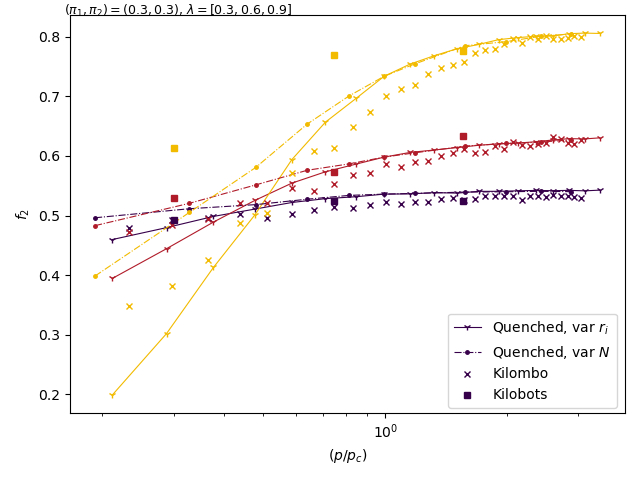
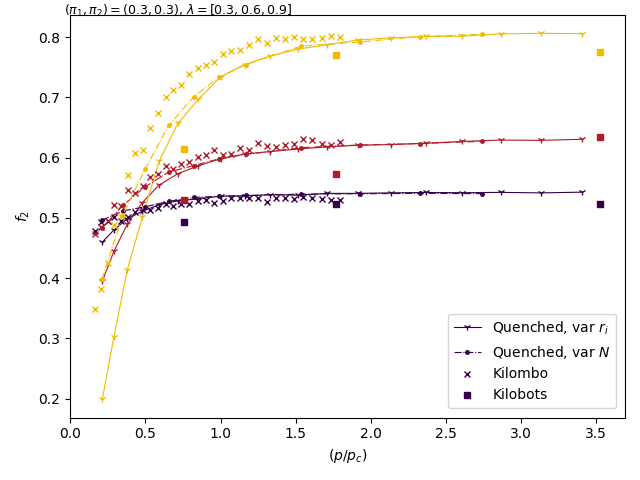
work 27 june

diff --git a/sim_some_params_frozen/sim_results_scaling_v2.py b/sim_some_params_frozen/sim_results_scaling_v2.py
@@ -5,7 +5,9 @@ import numpy as np
 # aqui la idea es que representem els resultats en funció de de p/pc o p*, i.e. la densitat de percolació
 # on pc = (N*ri**2/R**2)c, sent qualsevol de les variables la crítica
 # per exemple a partir dels radis de percolació a diferetns N (R fixe) obtenim una relació
-# pc = a + b*N^(-1/(nu*df)) 
+# pc = a + b*N^(-1/(nu*df))
+# pero en lloc de treure els valors de pc d'aquesta relació, fem servir igualment la relació
+# ri_c = a*N**b 
 
 model = 'Galla'
 pis = [0.3, 0.3]
@@ -24,12 +26,16 @@ nu, df_expo = 4/3, 182/96
 def perc_dens(N:int):
     return 11.356*N**(-1/(nu*df_expo)) + 0.939
 
+def perc_r(N):
+    return 58.11*N**(-0.615)
+
 fig, ax = plt.subplots()
 
 # QUENCHED
 # fix N, move interaction radius:
 N = 35
 perc_dens_fixN = perc_dens(N)
+perc_r_fixN = perc_r(N)
 df = pd.read_csv(f'{model}/{N}_bots/sim_fp_results_er_{exclusion_r}_NOPUSH.csv')
 df = df.loc[(df['arena_r']==arena_r) & (df['pi1']==pis[0]) & (df['pi2']==pis[1]) & (df['q1']==qs[0]) & (df['q2']==qs[1])]
 df = df[df.interac_r != 20.0]
@@ -37,14 +43,18 @@ df = df.rename(columns={"lambda":"lamb"})
 for l,lcolor in zip(lambs,lambs_colors):
     dfl = df.query('lamb == @l')
     if l==0.3:
-        ax.plot((N*dfl['interac_r']**2/arena_r**2)/perc_dens_fixN, dfl['f2'], color=lcolor, marker='1', markersize=5, lw=0.8, label=r'Quenched, var $r_i$')
+        # ax.plot((N*dfl['interac_r']**2/arena_r**2)/perc_dens_fixN, dfl['f2'], color=lcolor, marker='1', markersize=5, lw=0.8, label=r'Quenched, var $r_i$')
+        ax.plot((dfl['interac_r']/perc_r_fixN)**2, dfl['f2'], color=lcolor, marker='1', markersize=5, lw=0.8, label=r'Quenched, var $r_i$')
     else:
-        ax.plot((N*dfl['interac_r']**2/arena_r**2)/perc_dens_fixN, dfl['f2'], color=lcolor, marker='1', markersize=5, lw=0.8)
+        # ax.plot((N*dfl['interac_r']**2/arena_r**2)/perc_dens_fixN, dfl['f2'], color=lcolor, marker='1', markersize=5, lw=0.8)
+        ax.plot((dfl['interac_r']/perc_r_fixN)**2, dfl['f2'], color=lcolor, marker='1', markersize=5, lw=0.8)
 
 # QUENCHED
 # fix r_i, move N:
 interac_r = 6.5
 Ns = [10, 15, 20, 25, 30, 35, 40, 50, 60, 70, 80]
+# in this case we should know de Nc for this particular val of the interac_r, and p/pc = N/Nc
+# as we don't know this, we do p/pc = (interac_r/interac_r_c(N))**2
 for l,lcolor in zip(lambs,lambs_colors):
     f1_dif_N, f2_dif_N = [], []
     for N in Ns:
@@ -53,44 +63,54 @@ for l,lcolor in zip(lambs,lambs_colors):
         df = df.query('arena_r == @arena_r & pi1 == @pis[0] & pi2 == @pis[1] & q1 == @qs[0] & q2 == @qs[1] & lamb == @l & interac_r == @interac_r')
         f1_dif_N.append(float(df['f1'].iloc[0])), f2_dif_N.append(float(df['f2'].iloc[0]))
     perc_dens_q = perc_dens(np.array(Ns))
+    perc_r_difN = perc_r(np.array(Ns))
     if l==0.3:
-        ax.plot((np.array(Ns)*interac_r**2/arena_r**2)/perc_dens_q, f2_dif_N, color=lcolor, marker='.', markersize=5, lw=0.8, ls='-.', label=r'Quenched, var $N$')
+        # ax.plot((np.array(Ns)*interac_r**2/arena_r**2)/perc_dens_q, f2_dif_N, color=lcolor, marker='.', markersize=5, lw=0.8, ls='-.', label=r'Quenched, var $N$')
+        ax.plot((interac_r/perc_r_difN)**2, f2_dif_N, color=lcolor, marker='.', markersize=5, lw=0.8, ls='-.', label=r'Quenched, var $N$')
     else:
-        ax.plot((np.array(Ns)*interac_r**2/arena_r**2)/perc_dens_q, f2_dif_N, color=lcolor, marker='.', markersize=5, lw=0.8, ls='-.')
+        # ax.plot((np.array(Ns)*interac_r**2/arena_r**2)/perc_dens_q, f2_dif_N, color=lcolor, marker='.', markersize=5, lw=0.8, ls='-.')
+        ax.plot((interac_r/perc_r_difN)**2, f2_dif_N, color=lcolor, marker='.', markersize=5, lw=0.8, ls='-.')
 
 
 factor = 4.0/6.5
+factor = 4.0/7.0
 # factor = 0.5
 # KILOMBO
 # fix r_i, move N:
-interac_r = 7.0
+interac_r = 5.0
 df = pd.read_csv('other_res_files/kilomboStatValues_variableN.csv')
 df = df.rename(columns={"lambda":"lamb"})
 df = df.query("parameter == 'f2'")
 for l,lcolor in zip(lambs,lambs_colors):
     dfl = df.query('lamb == @l').copy()
     dfl['perc_dens'] = factor**2 * perc_dens(dfl['N'])
+    dfl['perc_r'] = factor * perc_r(dfl['N'])
     if l==0.3:
-        ax.plot(dfl['N']*(interac_r/arena_r)**2/dfl['perc_dens'], dfl['stat.value'], color=lcolor, marker='x', markersize=4, lw=0.0, label='Kilombo')
+        # ax.plot(dfl['N']*(interac_r/arena_r)**2/dfl['perc_dens'], dfl['stat.value'], color=lcolor, marker='x', markersize=4, lw=0.0, label='Kilombo')
+        ax.plot((interac_r/dfl['perc_r'])**2, dfl['stat.value'], color=lcolor, marker='x', markersize=4, lw=0.0, label='Kilombo')
     else:
-        ax.plot(dfl['N']*(interac_r/arena_r)**2/dfl['perc_dens'], dfl['stat.value'], color=lcolor, marker='x', markersize=4, lw=0.0)
+        # ax.plot(dfl['N']*(interac_r/arena_r)**2/dfl['perc_dens'], dfl['stat.value'], color=lcolor, marker='x', markersize=4, lw=0.0)
+        ax.plot((interac_r/dfl['perc_r'])**2, dfl['stat.value'], color=lcolor, marker='x', markersize=4, lw=0.0)
 
 
 # KILOBOTS
 # fix r_i, move N:
-interac_r = 5.0
+interac_r = 7.0
 df = pd.read_csv('other_res_files/KilobotsStatValues_VaryingN.csv')
 df = df.rename(columns={"lambda":"lamb"})
 df = df.query("parameter == 'f2' & pi1 == @pis[0] & pi2 == @pis[1]")
 for l,lcolor in zip(lambs,lambs_colors):
     dfl = df.query('lamb == @l').copy()
     dfl['perc_dens'] = factor**2 * perc_dens(dfl['N'])
+    dfl['perc_r'] = factor * perc_r(dfl['N'])
     if l==0.3:
-        ax.plot(dfl['N']*(interac_r/arena_r)**2/dfl['perc_dens'], dfl['stat.value'], color=lcolor, marker='s', markersize=4, lw=0.0, label='Kilobots')
+        # ax.plot(dfl['N']*(interac_r/arena_r)**2/dfl['perc_dens'], dfl['stat.value'], color=lcolor, marker='s', markersize=4, lw=0.0, label='Kilobots')
+        ax.plot((interac_r/dfl['perc_r'])**2, dfl['stat.value'], color=lcolor, marker='s', markersize=4, lw=0.0, label='Kilobots')
     else:
-        ax.plot(dfl['N']*(interac_r/arena_r)**2/dfl['perc_dens'], dfl['stat.value'], color=lcolor, marker='s', markersize=4, lw=0.0)
+        # ax.plot(dfl['N']*(interac_r/arena_r)**2/dfl['perc_dens'], dfl['stat.value'], color=lcolor, marker='s', markersize=4, lw=0.0)
+        ax.plot((interac_r/dfl['perc_r'])**2, dfl['stat.value'], color=lcolor, marker='s', markersize=4, lw=0.0)
 
-ax.set(xlabel=r'$(p/ p_c)$', ylabel=r'$f_2$', xscale='log')
+ax.set(xlabel=r'$(p/ p_c)$', ylabel=r'$f_2$') # , xscale='log'
 fig.text(0.1,0.97, rf"$(\pi_1, \pi_2) = ({pis[0]}, {pis[1]})$, $\lambda = [0.3, 0.6, 0.9]$", fontsize=9)
 fig.legend(loc=(0.7,0.15), fontsize=10)
 fig.tight_layout()

diff --git a/det_sols_from_polynomial/many_parameters.py b/det_sols_from_polynomial/many_parameters.py
@@ -157,6 +157,26 @@ def computeLambdaEvo(pi1, pi2, q1, q2, dl=0.01, l_lims = (0.01, 0.99), noInterac
     else:
         df.to_csv(f'{path}/lambdaEvo_pi1_{pi1}_pi2_{pi2}_q1_{q1}_q2_{q2}.csv', index=False)
 
+def compute_results_many_params(pi_pairs, q2, q1s, ls):
+    df_cols = [[],[],[],[],[],[],[],[]] # pi1, pi2, q1, q2, l, f0, f1, f2
+    for pi_pair in pi_pairs:
+        pi1, pi2 = pi_pair
+        for q1 in q1s:
+            for l in ls:
+                subprocess.call(f'python f0poly_sols_clean.py {pi1} {pi2} {q1} {q2} {l} > sols.dat', shell=True)
+                with open('sols.dat', 'r') as file:
+                    sols = [float(f) for f in file.readline().split()]
+                df_cols[0].append(pi1)
+                df_cols[1].append(pi2)
+                df_cols[2].append(q1)
+                df_cols[3].append(q2)
+                df_cols[4].append(round(l,2))
+                df_cols[5].append(sols[0])
+                df_cols[6].append(sols[1])
+                df_cols[7].append(sols[2])
+    df = pd.DataFrame({'pi1':df_cols[0], 'pi2':df_cols[1], 'q1':df_cols[2], 'q2':df_cols[3], 'lamb':df_cols[4], 
+                       'f0':df_cols[5], 'f1':df_cols[6], 'f2':df_cols[7]})
+    df.to_csv(f'{path}/analytic_res_many_params.csv', index=False)
 
 
 #for l in [0.9, 0.99, 0.999]:
@@ -170,9 +190,9 @@ def computeLambdaEvo(pi1, pi2, q1, q2, dl=0.01, l_lims = (0.01, 0.99), noInterac
 # computeAsymmetricMap_mesh(20, 40, 0.6)
 # computeAsymmetricMap_mesh(38, 40, 0.9)
 
-computeAsymmetricMap_mesh_fixPi1(0.25, 5, 10, pi2_lims=(0.01, 0.5), parqDf=False)
-computeAsymmetricMap_mesh_fixPi1(0.25, 7, 10, pi2_lims=(0.01, 0.5), parqDf=False)
-computeAsymmetricMap_mesh_fixPi1(0.25, 9, 10, pi2_lims=(0.01, 0.5), parqDf=False)
+# computeAsymmetricMap_mesh_fixPi1(0.25, 5, 10, pi2_lims=(0.01, 0.5), parqDf=False)
+# computeAsymmetricMap_mesh_fixPi1(0.25, 7, 10, pi2_lims=(0.01, 0.5), parqDf=False)
+# computeAsymmetricMap_mesh_fixPi1(0.25, 9, 10, pi2_lims=(0.01, 0.5), parqDf=False)
 
 # computeLambdaEvo(0.4, 0.2, 5, 10)
 # computeLambdaEvo(0.4, 0.2, 10, 20)
@@ -188,3 +208,6 @@ computeAsymmetricMap_mesh_fixPi1(0.25, 9, 10, pi2_lims=(0.01, 0.5), parqDf=False
 # computeLambdaEvo(0.4, 0.2, 18, 20)
 # computeLambdaEvo(0.4, 0.2, 27, 30)
 # computeLambdaEvo(0.4, 0.2, 36, 40)
+
+compute_results_many_params([(0.1, 0.1), (0.2, 0.2), (0.3, 0.3), (0.4, 0.4), (0.5, 0.5), (0.2, 0.1), (0.4, 0.2)],
+                            10, [1,2,3,4,5,6,7,8,9], np.arange(0.0, 0.9, 0.1))
